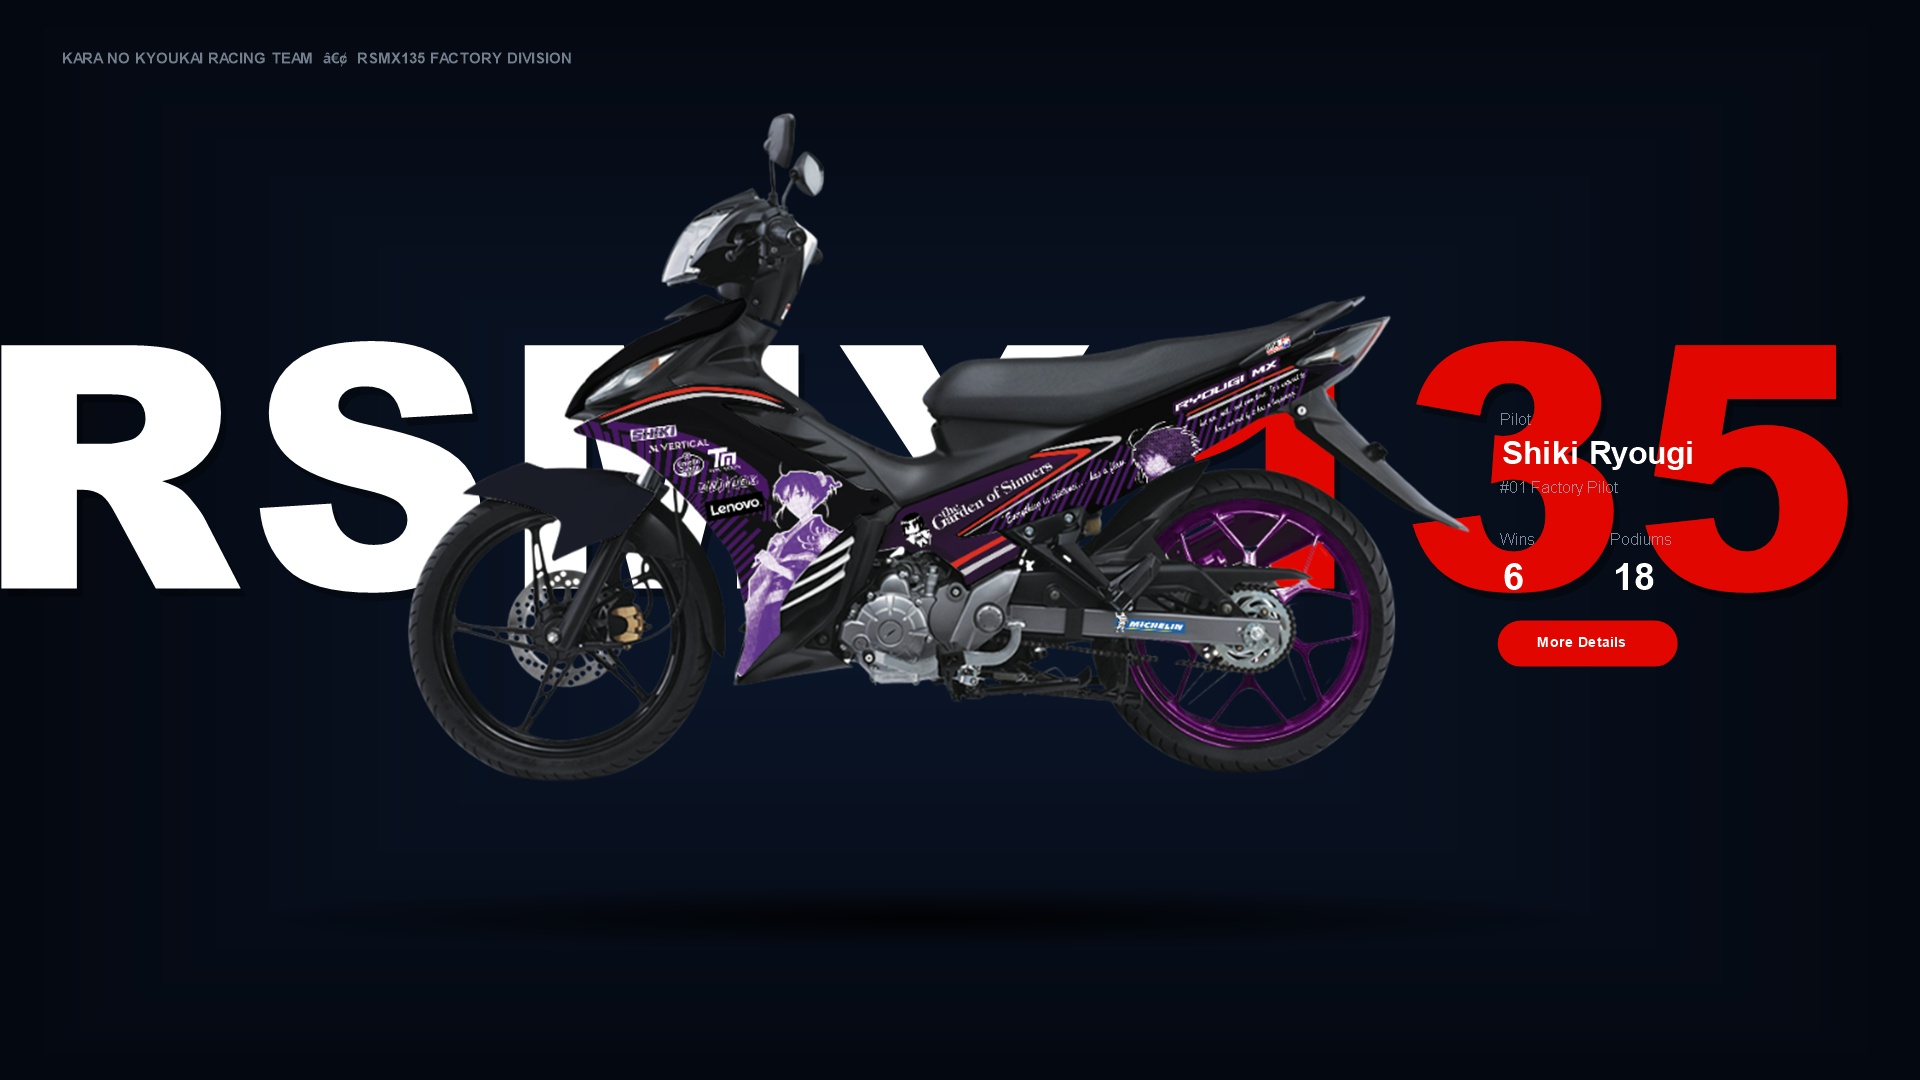
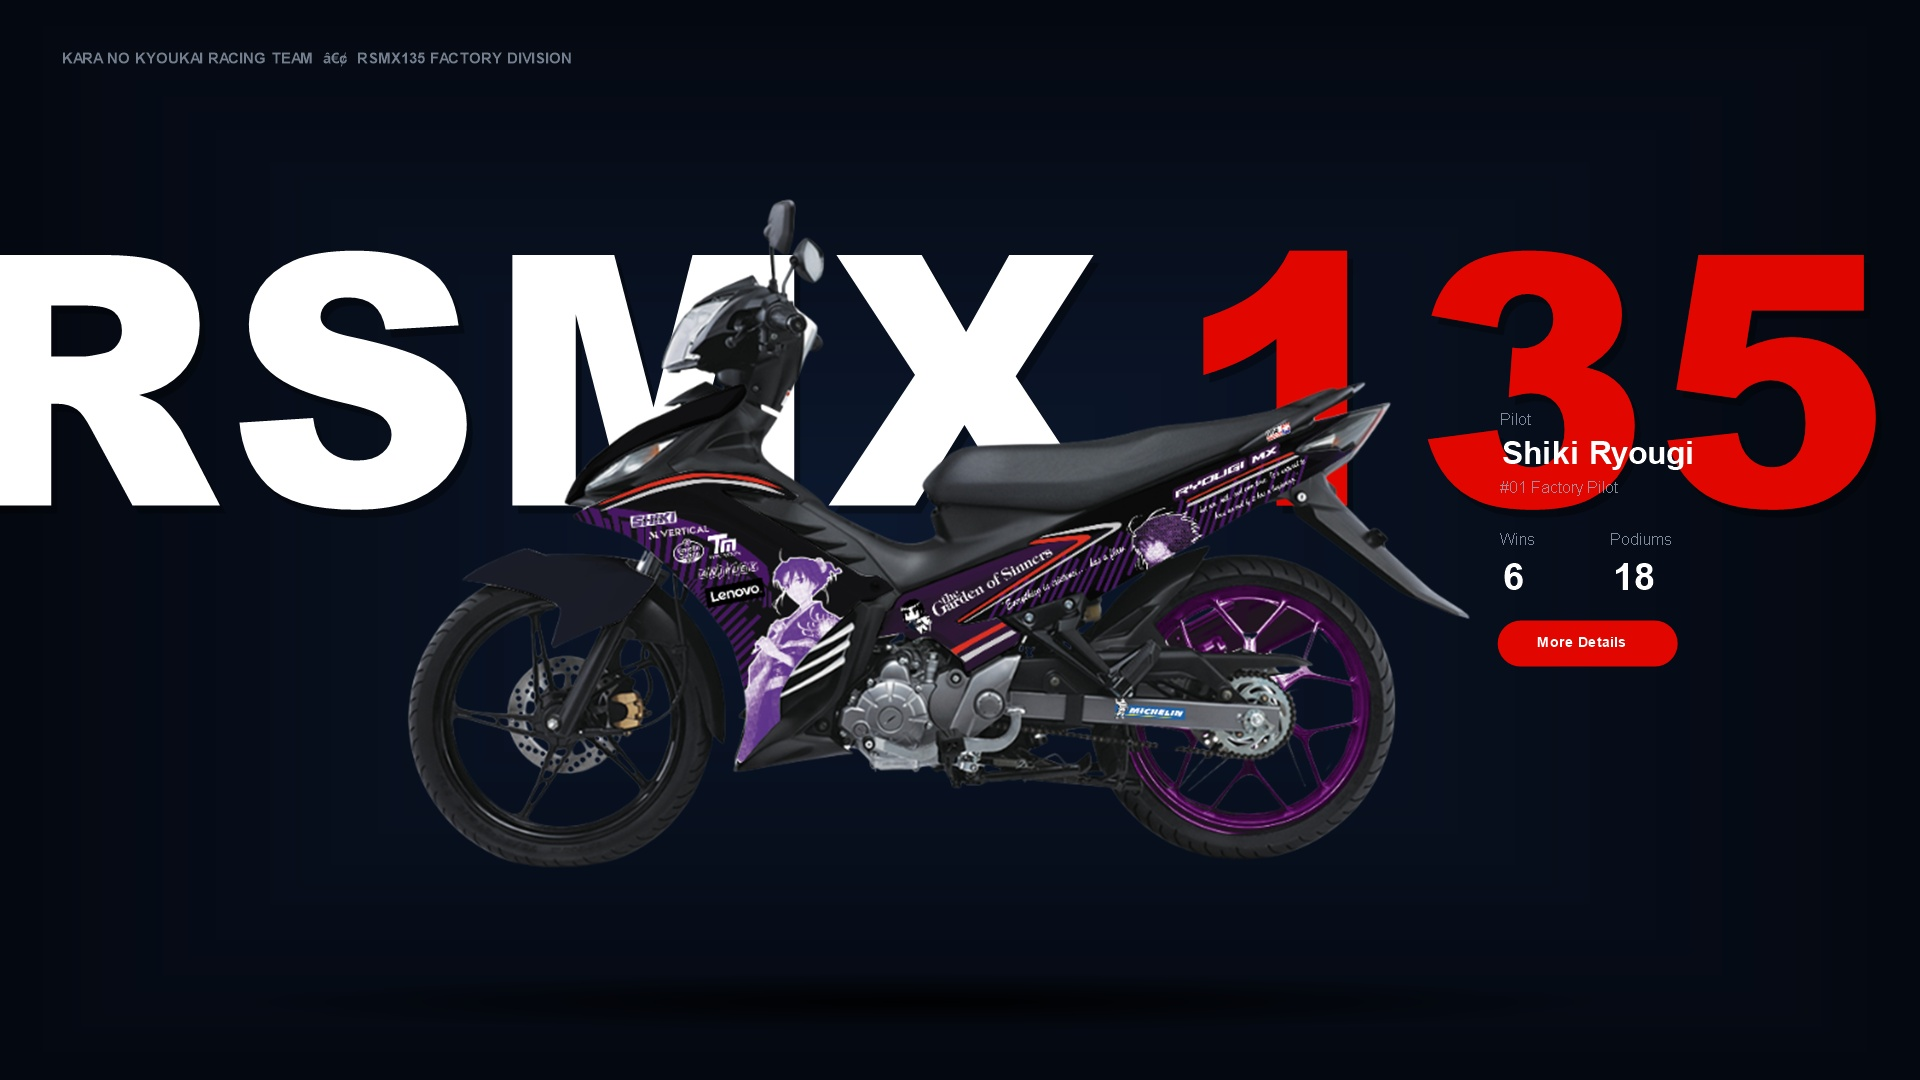
style: lower motorcycle position and elevate RSMX135 backdrop typography for enhanced legibility

Changed region(s): [[0.0, 0.0917, 1.0, 0.825]]

diff --git a/styles.css b/styles.css
@@ -1155,16 +1155,16 @@ body::before {
   position: relative;
   z-index: 2;
   display: flex;
-  align-items: center;
+  align-items: flex-end;
   justify-content: center;
   width: 100%;
-  min-height: 480px;
+  min-height: 520px;
 }
 
 /* Giant Red Bull Style Backdrop Typography behind machine */
 .machine-backdrop-text {
   position: absolute;
-  top: 50%;
+  top: 35%;
   left: 50%;
   transform: translate(-50%, -50%);
   display: flex;
@@ -1194,7 +1194,7 @@ body::before {
   filter: drop-shadow(0 0 50px rgba(225, 6, 0, 0.65));
 }
 
-/* Stage for transparent bike cutout */
+/* Stage for transparent bike cutout - positioned lower for text legibility */
 .showcase-stage {
   position: relative;
   z-index: 2;
@@ -1203,6 +1203,8 @@ body::before {
   display: flex;
   align-items: center;
   justify-content: center;
+  margin-top: 45px;
+  transform: translateY(22px);
 }
 
 .showcase-stage::after {
@@ -1413,10 +1415,16 @@ body::before {
     gap: 32px;
   }
   .showcase-stage-area {
-    min-height: 400px;
+    min-height: 420px;
+    align-items: flex-end;
   }
   .machine-backdrop-text {
+    top: 32%;
     font-size: clamp(4rem, 16vw, 9rem);
+  }
+  .showcase-stage {
+    margin-top: 36px;
+    transform: translateY(18px);
   }
   .showcase-rbr-sidebar {
     padding-left: 0;
@@ -1442,11 +1450,16 @@ body::before {
     align-items: flex-start;
   }
   .showcase-stage-area {
-    min-height: 300px;
+    min-height: 330px;
+    align-items: flex-end;
   }
   .machine-backdrop-text {
-    top: 50%;
+    top: 28%;
     font-size: clamp(3rem, 17vw, 6rem);
+  }
+  .showcase-stage {
+    margin-top: 28px;
+    transform: translateY(12px);
   }
   .showcase-rbr-sidebar {
     flex-direction: column;
